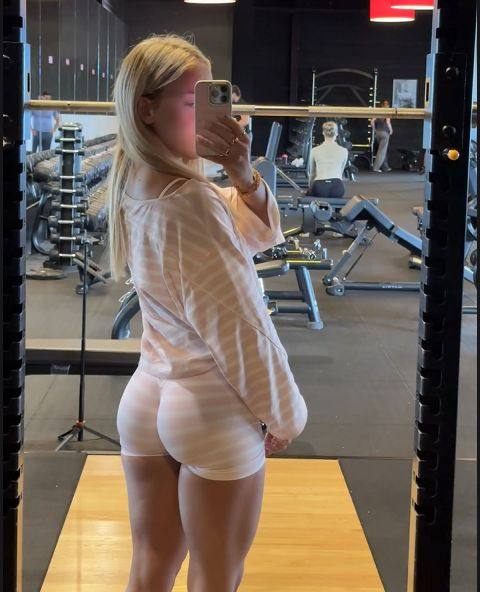
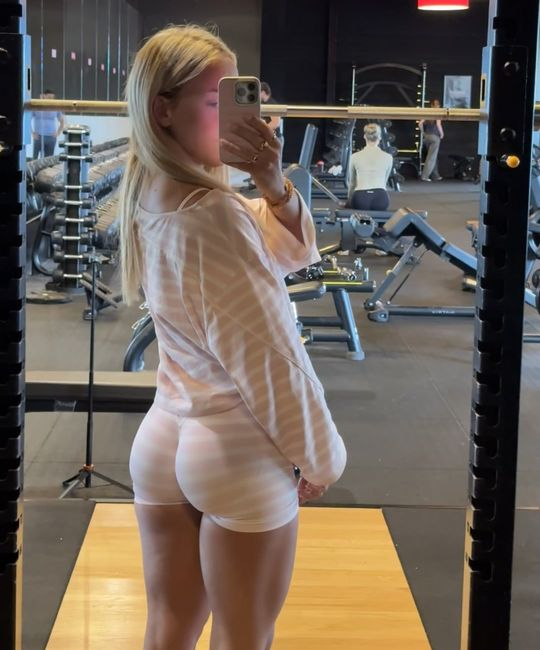
Startscherm v2: foto 5 van hoofd tot knieën, hoofd niet afgesneden
Claude-Session: https://claude.ai/code/session_01VvNzFeTCxrrL211BWQVtG7

diff --git a/client/src/onboarding/Startscherm.tsx b/client/src/onboarding/Startscherm.tsx
@@ -18,9 +18,9 @@ const KOLOMMEN: ReadonlyArray<readonly [string, string]> = [
   [foto3, foto6],
 ]
 
-// Welk deel van een foto in beeld blijft (verticaal). Foto 5: billen meer in
-// beeld (Roel, 18 nov).
-const POSITIE: Record<string, string> = { [foto5]: '50% 82%' }
+// Welk deel van een foto in beeld blijft (verticaal). Foto 5: hoofd tot knieën in beeld, hoofd
+// niet afsnijden (Roel, 18 nov).
+const POSITIE: Record<string, string> = { [foto5]: '50% 30%' }
 
 interface StartschermProps {
   isGekozen: (option: Geslacht) => boolean
